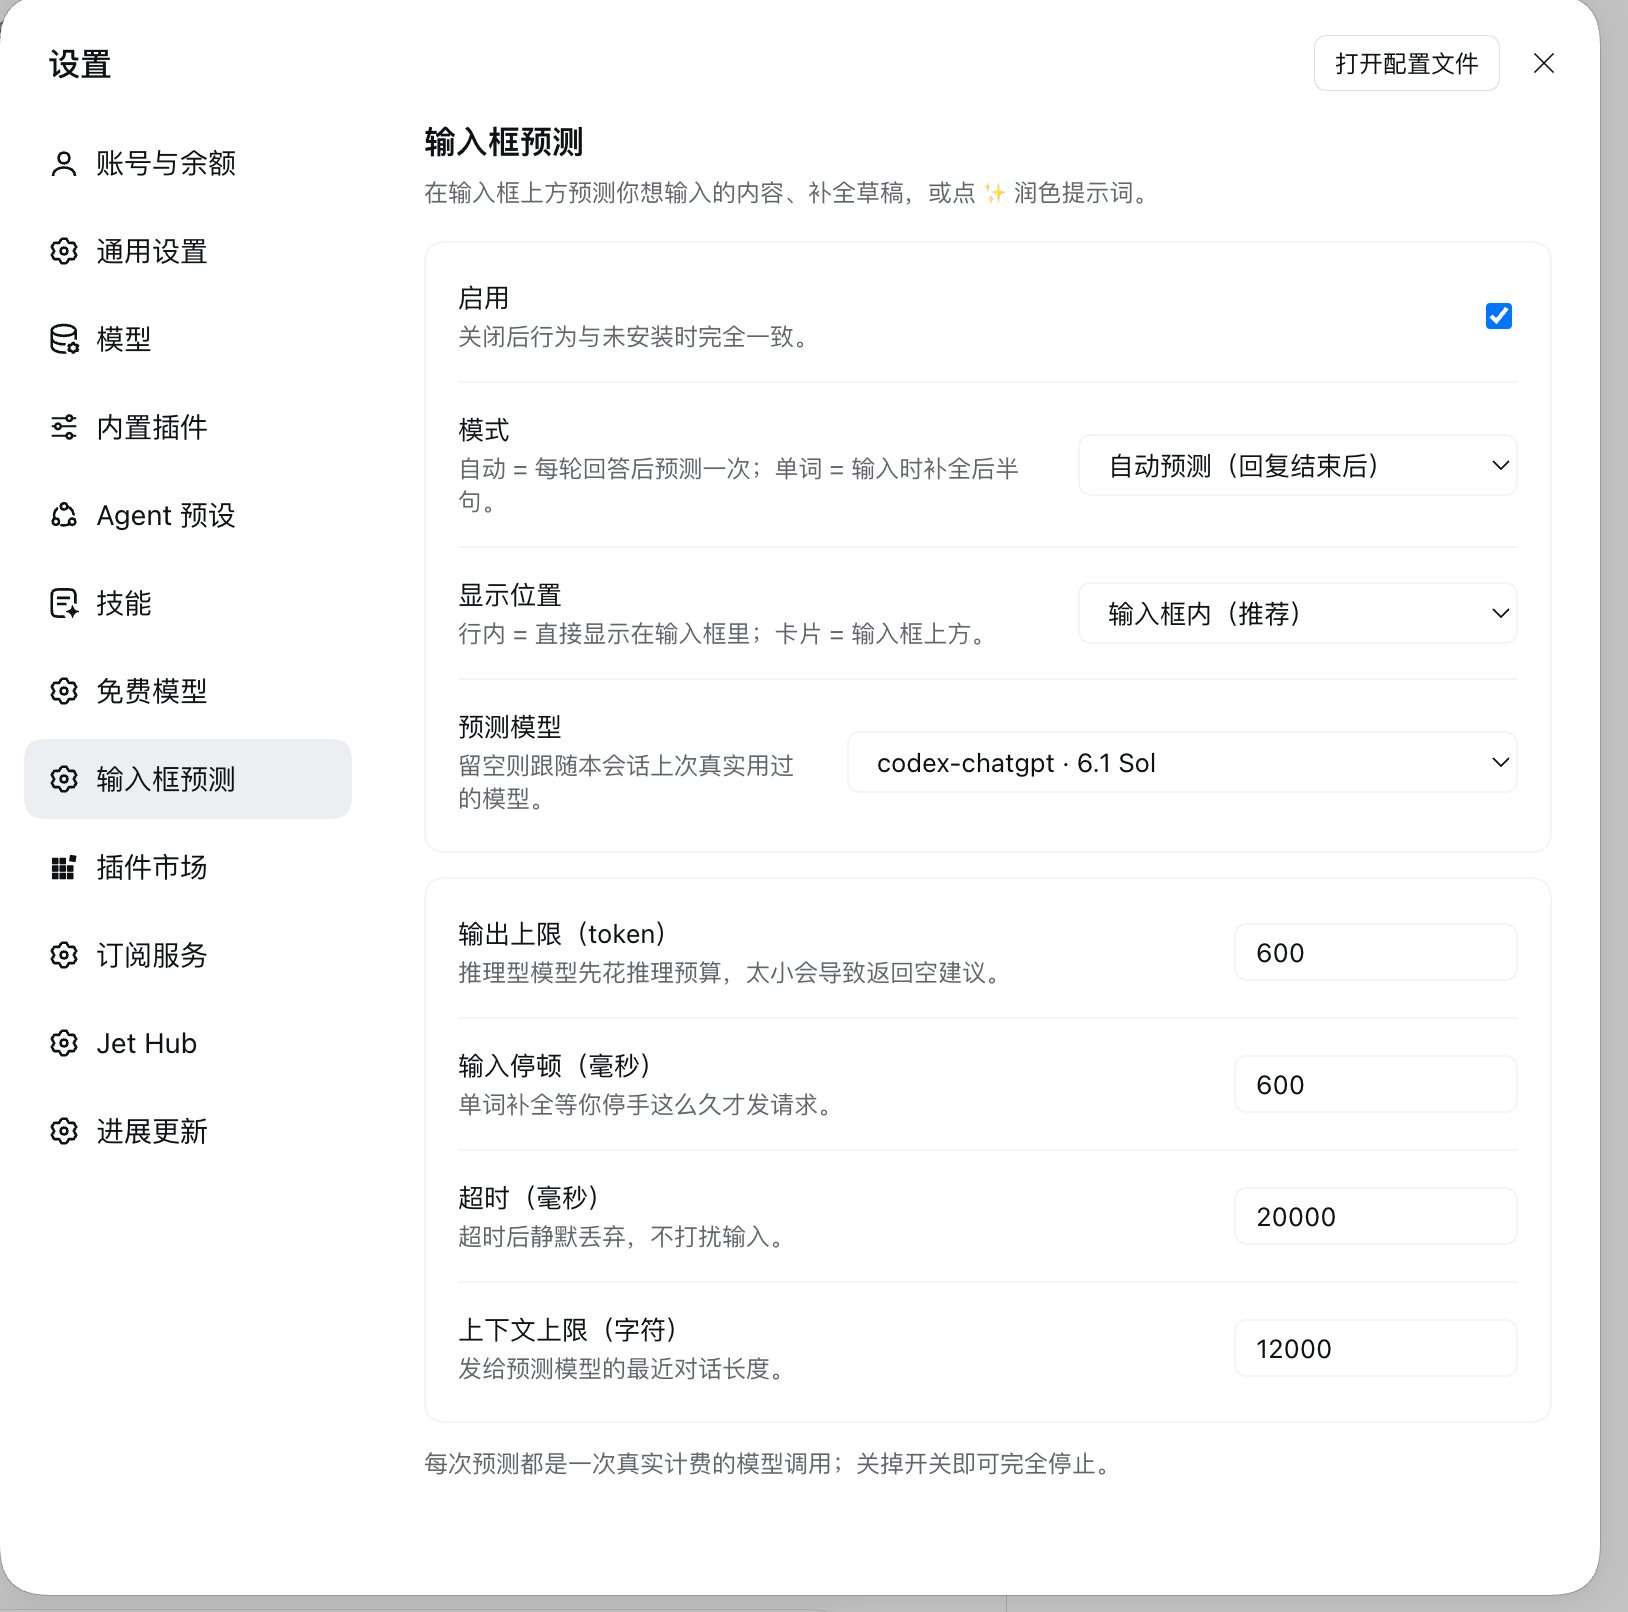
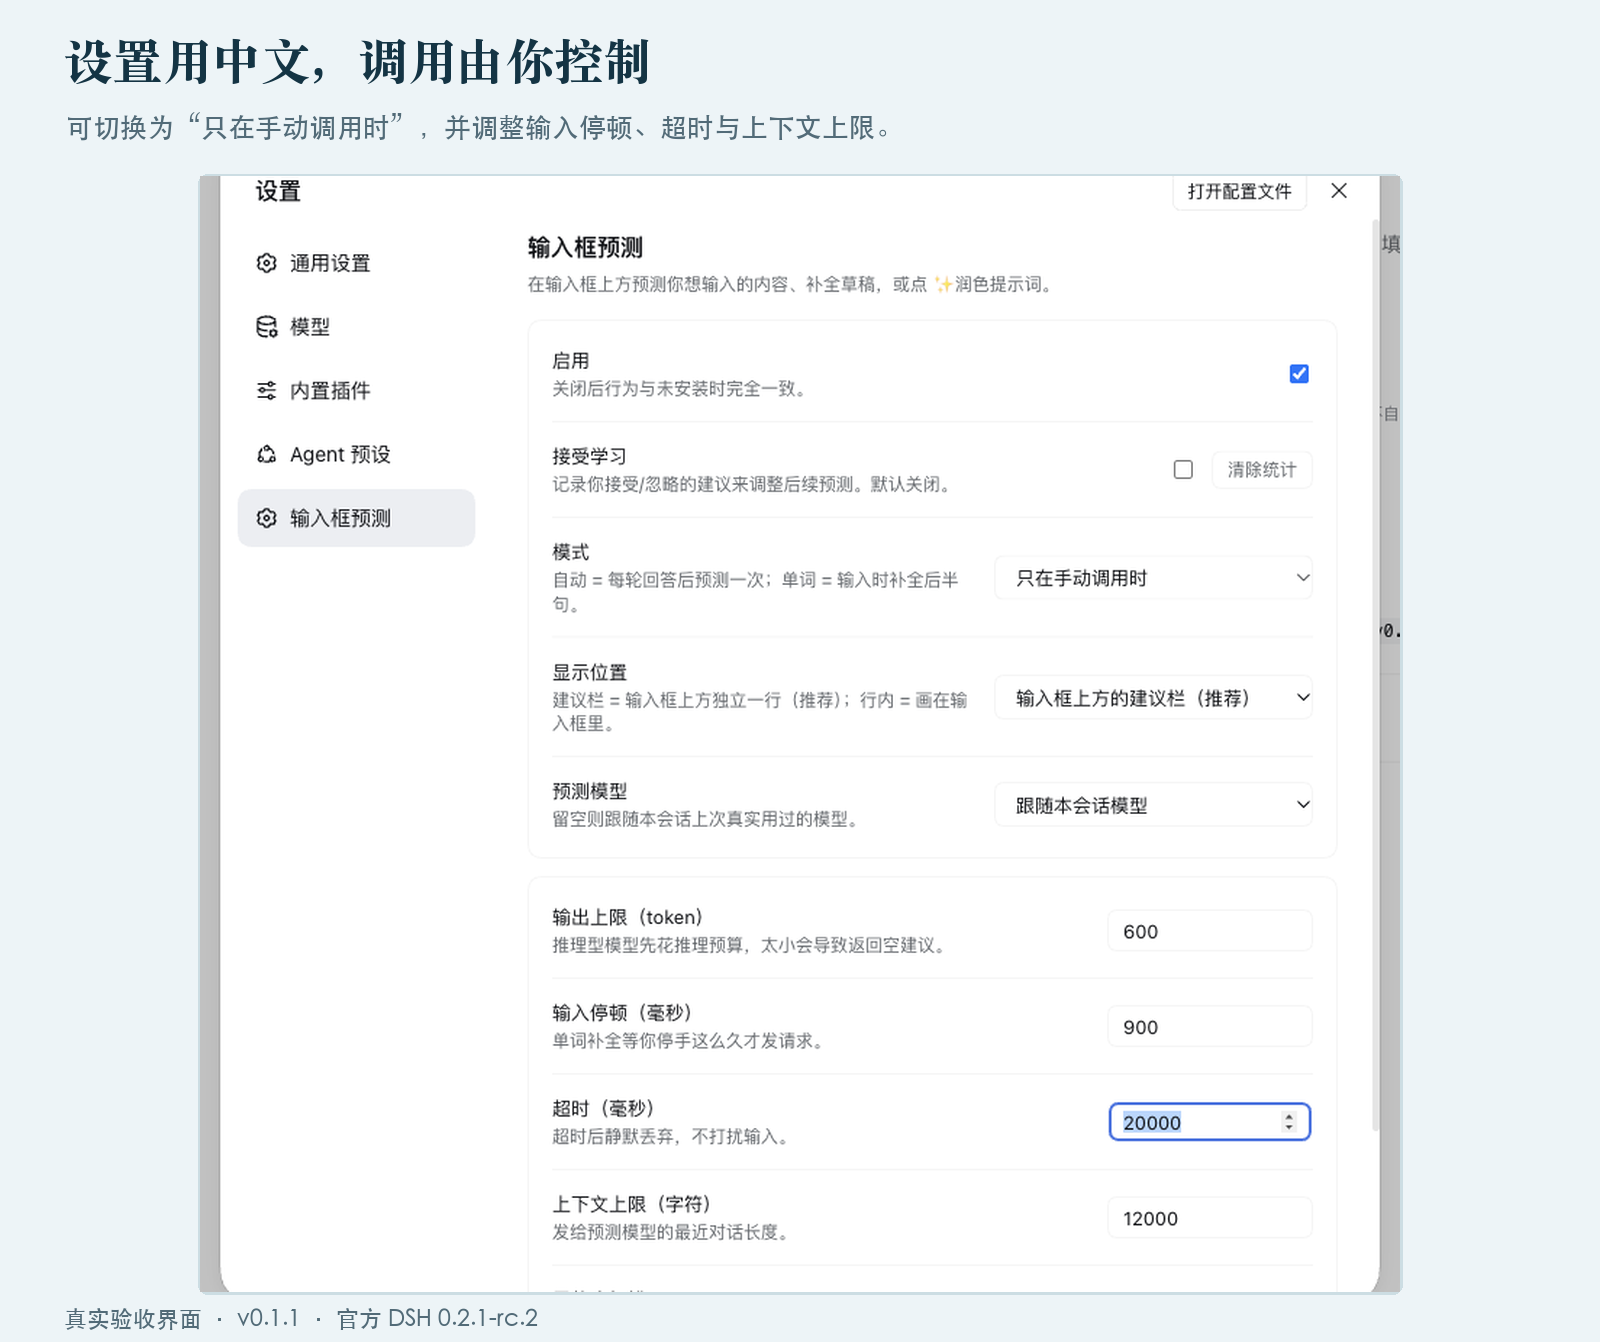
docs: add Chinese showcase and standard PNG screenshots
Make the public v0.1.1 homepage Chinese-first, distinguish feature illustration from real GUI acceptance images, and add the repository-owned screenshot manifest and a Chinese raster market icon. Preserve advanced bilingual documentation, billing and source-available licensing disclosures. No runtime files, license, package metadata or release artifacts are changed.

diff --git a/README.md b/README.md
@@ -1,18 +1,71 @@
-# 输入框预测 · Composer prediction
+# 输入框预测
 
-> **中文**：根据当前对话和你说话的方式，在输入框上方给出你下一条最可能发的消息，按 Tab 即可采用；同时支持输入时补全草稿、一键润色提示词。
+**让 DSH 先起草下一句，由你决定是否采用。**
+
+结合当前对话预测后续输入、补全草稿，或按需润色提示词。建议按会话保留；按 **Tab** 只填入草稿，**不会自动发送**。
+
+![中文功能介绍：预测下一句、补全草稿、提示词润色；Tab 只填入草稿，不自动发送](<screenshots/overview-zh.png>)
+
+当前公开版本为 **[v0.1.1](<https://github.com/Lphehe/dsh-composer-assist/releases/tag/v0.1.1>)**，只包含输入预测相关功能，不包含开发中的动态工作流。上图是功能介绍图，不是模型生成结果截图。
+
+> **先看费用：**预测、补全和润色会发起真实模型调用，可能产生费用。默认自动模式会在每轮回答后预测一次；建议先在设置中切到“只在手动调用时”，确认模型和预算后再启用自动预测。
 >
-> **English**: Predicts your next message in the DSH composer, based on your conversation and how you talk to it. Press Tab to take it. It also completes a draft as you type and rewrites a prompt for clarity on demand.
+> **许可边界：**源码可见，不是开放源代码许可证。允许使用未经修改的版本；修改、制作衍生版本或分发修改版本须事先取得著作权人书面许可。详见[完整许可](<LICENSE>)。
 
-<p align="center">
-  <img src="screenshots/composer-bar.png" alt="建议栏显示在输入框上方" width="720">
-</p>
-<p align="center"><sub>输入框上方的独立建议栏，与输入框同宽对齐</sub></p>
+## 快速安装
 
-<p align="center">
-  <img src="screenshots/settings.png" alt="设置页" width="560">
-</p>
-<p align="center"><sub>设置 → 输入框预测</sub></p>
+在 DSH 中打开 **插件 → 添加插件**，粘贴下面的公开下载地址，完成安装后启用：
+
+```text
+https://github.com/Lphehe/dsh-composer-assist/releases/download/v0.1.1/dsh-composer-assist.tgz
+```
+
+这是已预打包的 v0.1.1，不需要源码构建。也可以让 Harness 助手使用 `plugin_manager install_bundle` 安装同一个地址。
+
+普通 CLI profile 可使用下列命令；把 `web` 换成你的 profile 名，Desktop 使用插件管理器：
+
+```bash
+dsh plugin --profile web add https://github.com/Lphehe/dsh-composer-assist/releases/download/v0.1.1/dsh-composer-assist.tgz
+```
+
+## 你可以怎么用
+
+| 你想做的事 | 使用方式 |
+| --- | --- |
+| 接着当前对话继续提问 | 自动模式在回答结束后预测下一句，也可点“预测”手动调用。 |
+| 已写了一半，不想从头改写 | 单词补全模式在输入停顿后补全草稿。 |
+| 把现有草稿说得更清楚 | 点“润色”，检查结果后再采用。 |
+| 只想自己决定什么时候调用 | 进入“设置 → 输入框预测”，选择“只在手动调用时”。 |
+
+**接受不等于发送。** Tab 或接受按钮只把建议填进草稿；Esc 隐藏建议，“忽略”丢弃候选。草稿为空时可用左右方向键切换候选；按住修饰键或输入法正在组合时不拦截方向键。
+
+## 中文界面实图
+
+以下图片来自 v0.1.1 在官方 DSH **0.2.1-rc.2** 中的实际 GUI 安装验收，只展示草稿、操作入口和设置；没有配置模型，也没有生成预测结果。
+
+![中文输入框实图：草稿旁的预测与润色入口；未执行模型生成](<screenshots/composer-bar.png>)
+
+![中文设置实图：只在手动调用时、显示位置、预测模型与调用参数](<screenshots/settings.png>)
+
+## 设置与使用边界
+
+- **先配置模型。**未指定预测模型时，跟随本会话上次真实用过的模型；没有可用模型时，需要先在 DSH 的模型设置中配置。
+- **自动调用可关闭。**支持自动预测、输入时补全、两者都要和仅手动四种模式。可调整输出上限、输入停顿、超时、上下文上限及置信度门槛。
+- **接受学习默认关闭。**启用后会记录接受/忽略统计，也可以清除统计。
+- **注意发送给模型的上下文。**调用会使用近期对话、用户约束、有限工具文本证据，以及经筛选的工作区顶层文件名和 Git 状态摘要；不读取这些工作区文件的内容，也不复制隐藏推理、图片、附件、工具参数或整个系统提示词。
+- **迟到结果会被丢弃。**会话、来源或草稿发生变化时，旧请求不能覆盖新输入；取消远端调用是尽力而为，不能保证立刻停止生成或计费。
+- **置信度不是概率保证。**高/中/低是模型自评，不是经过校准的准确率。
+
+配置保存在 `$DSH_HOME/composer-assist/settings.json`。本次验证覆盖安装、启用、设置保存与重开、浅深色界面、未发送草稿；**不代表模型输出质量、完整候选接受链或其他 DSH 版本已经验收**。
+
+## 自检与许可
+
+克隆仓库后可运行 `node selfcheck.mjs`，检查解析、上下文、所有权与超时保护等已有自检；不调用模型，也不改写用户设置。
+
+原创程序代码采用“源码可见、禁止修改”条款，完整内容见 [LICENSE](<LICENSE>)。用户自己的配置、输入、输出和工作流脚本不受本项修改限制；第三方组件继续遵守各自许可证。
+
+<details>
+<summary>完整设置与技术资料（保留原文及英文对照）</summary>
 
 ## 功能 · Features
 
@@ -134,3 +187,5 @@ After cloning, run `node selfcheck.mjs` for parser, learning-counter and context
 原创程序代码采用“源码可见、禁止修改”条款，并非开放源代码许可证。允许使用未经修改的版本；未经著作权人事先书面许可，不得修改本软件、制作衍生版本或分发修改版本。完整条款见 [LICENSE](LICENSE)。用户自己的配置、输入、输出和工作流脚本不受本项修改限制。
 
 The original program code is source-available under use-permitted, modification-prohibited terms, not an open-source license. Use of the unmodified software is permitted; modification or derivative versions require the copyright holder's prior written permission. See [LICENSE](LICENSE). These restrictions do not apply to users' own configuration, input, output or workflow scripts.
+
+</details>
